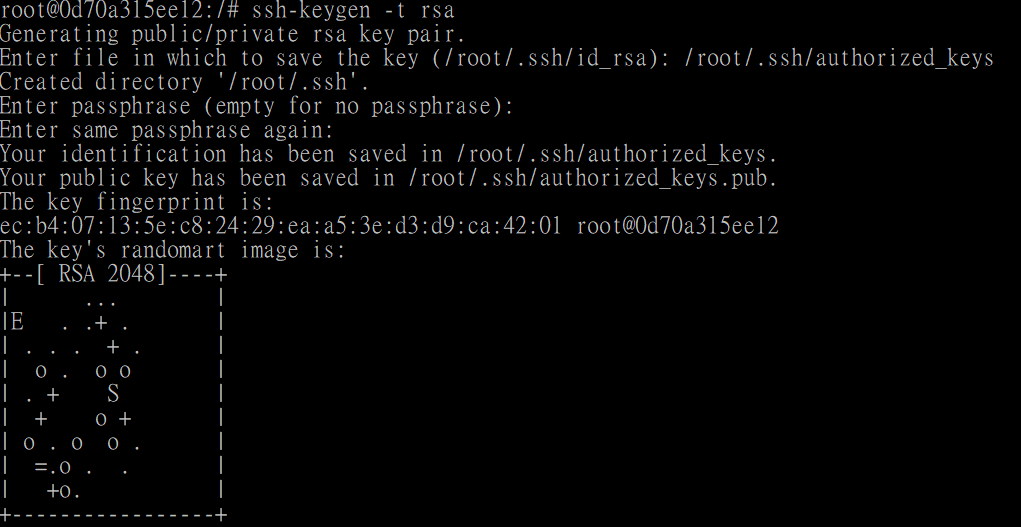
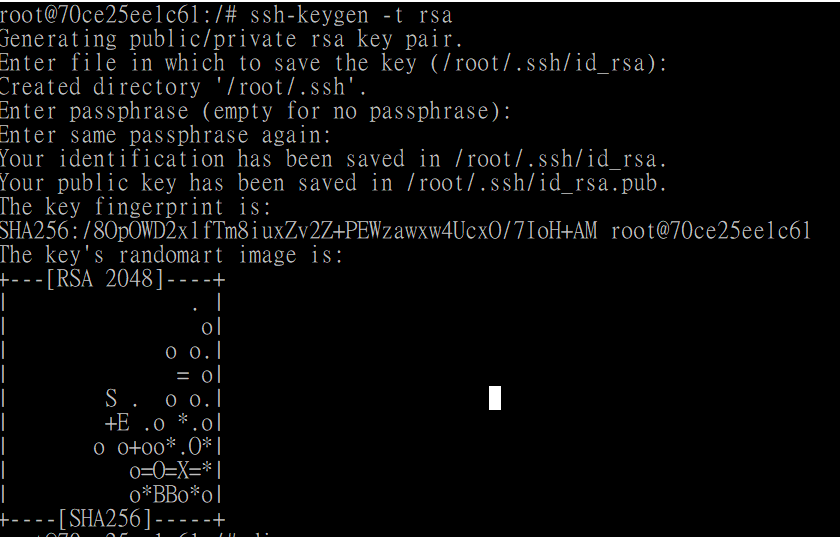
Complete SSH service

Changed region(s): [[0.0, 0.0, 1.0, 1.0], [0.5571, 0.6983, 0.619, 0.759], [0.0929, 0.6072, 0.1238, 0.6376]]

diff --git a/Docker/7. SSH Service/README.md b/Docker/7. SSH Service/README.md
@@ -1,6 +1,8 @@
 # SSH Service
 
-## Create SSH Service
+## Create a container with SSH Service
+
+### Update apt-get and install openssh-server
 
 ```
 $ docker run -it --name ubuntuSSH ubuntu:14.04 /bin/bash
@@ -14,7 +16,7 @@ root@xxx:/# apt-get -y install vim
 | --yes, --assume-yes | -y | | Automatic yes to prompts; assume "yes" as answer to all prompts and run non-interactively.<br /> If an undesirable situation, such as changing a held package, trying to install a unauthenticated package or removing an essential package occurs then apt-get will abort.<br /> Configuration Item: APT::Get::Assume-Yes. |
 
 
-Create directory /var/run/sshd and start SSH service
+### Create directory /var/run/sshd and start SSH service
 
 ```
 root@xxx:/# mkdir -p /var/run/sshd
@@ -41,33 +43,23 @@ root@xxx:/# netstat -tunlp
 ![](assets/002.png)
 
 
-Cancel PAM's login contraints
+### Cancel PAM's login contraints
 
 ```
 root@xxx:/# sed -ri 's/session required pam_loginuid.so/#session required pam_loginuid.so/g' /etc/pam.d/sshd
 ```
 
+### SSH key
 
-Create .ssh for root user and generate a RSA public key for login to `root/.ssh/authorized_keys` 
+Create .ssh for root user and copy a RSA public key of local in order to login to `root/.ssh/authorized_keys`, see [How to generate a key](#How-to-generate-RSA-Key).
 
 ```
 root@xxx:/# mkdir root/.ssh
-root@xxx:/# ssh-keygen -t rsa
-```
-
-![](assets/003.png)
-
-
-You can copy the key from `.ssh/id_rsa.pub` to it as well.
-
-```
 root@xxx:/# vim root/.ssh/authorized_keys
 ```
 
-![](assets/004.png)
 
-
-Create a run.sh as a automatic-started service.
+### Create a run.sh as a automatic-started service.
 
 ```
 root@xxx:/# vim /run.sh
@@ -82,6 +74,7 @@ Which contains the following content.
 
 
 * run.sh
+
   ```
   #!/bin/bash
   /usr/sbin/sshd -D
@@ -108,10 +101,42 @@ $ docker commit ubuntuSSH ubuntu-sshd:0.01
 ![](assets/005.png)
 
 
-## How to use the image
+## Use the image to create a container
 
 ```
-$ docker run -d -p 9922:22 --name my-sshd-ubuntu ubuntu-sshd:0.01 
+$ docker run -d --restart=always -p 1122:22 --name my-sshd-ubuntu ubuntu-sshd:0.01 /run.sh 
 ```
 
+> Use `echo $(docker-machine ip default)` to get the default IP.
 
+
+## Connect to the remote server
+
+
+In the local server, use the following command to connect it,
+
+```
+$ ssh 192.168.99.200 -p 1122 
+```
+
+![](assets/006.png)
+
+
+
+## How to generate RSA key
+
+Generate a RSA public key in local to login to container.
+
+```
+$ ssh-keygen -t rsa
+```
+
+which will default generate a key to `/root/.ssh/id_rsa.pub`.
+
+![](assets/003.png)
+
+
+> You can pass the key to remote server with [ssh-copy-id](https://www.ssh.com/ssh/copy-id) by the following command,
+> ```
+> $ ssh-copy-id -i /root/.ssh/id_rsa.pub <host name/ip>
+> ```
